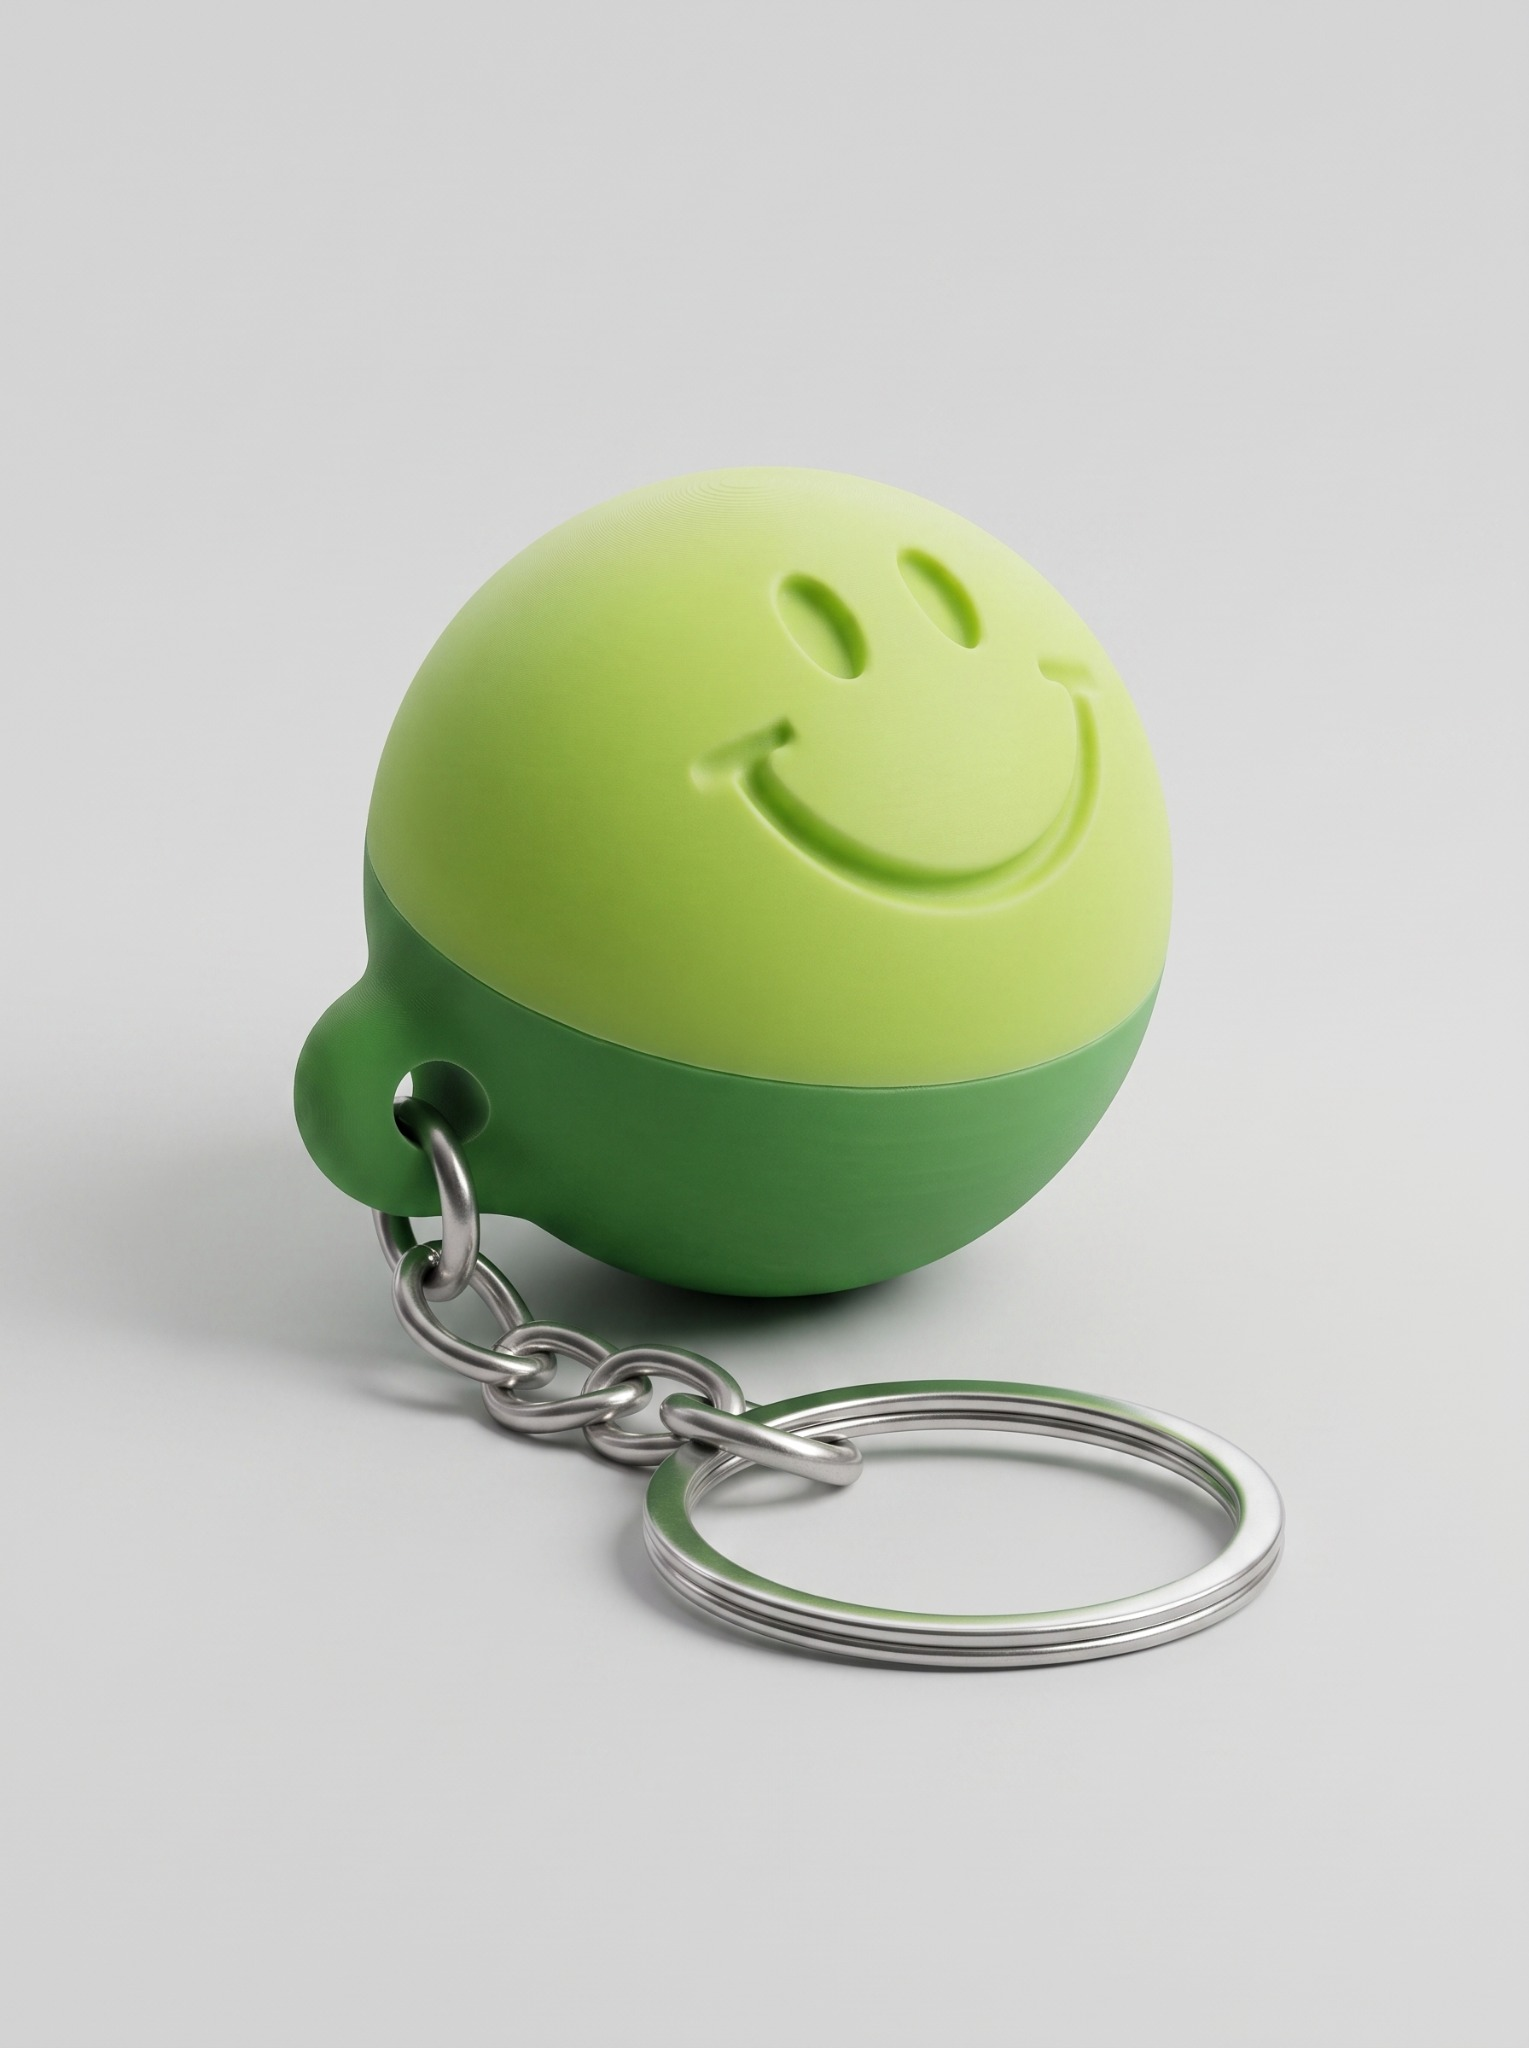
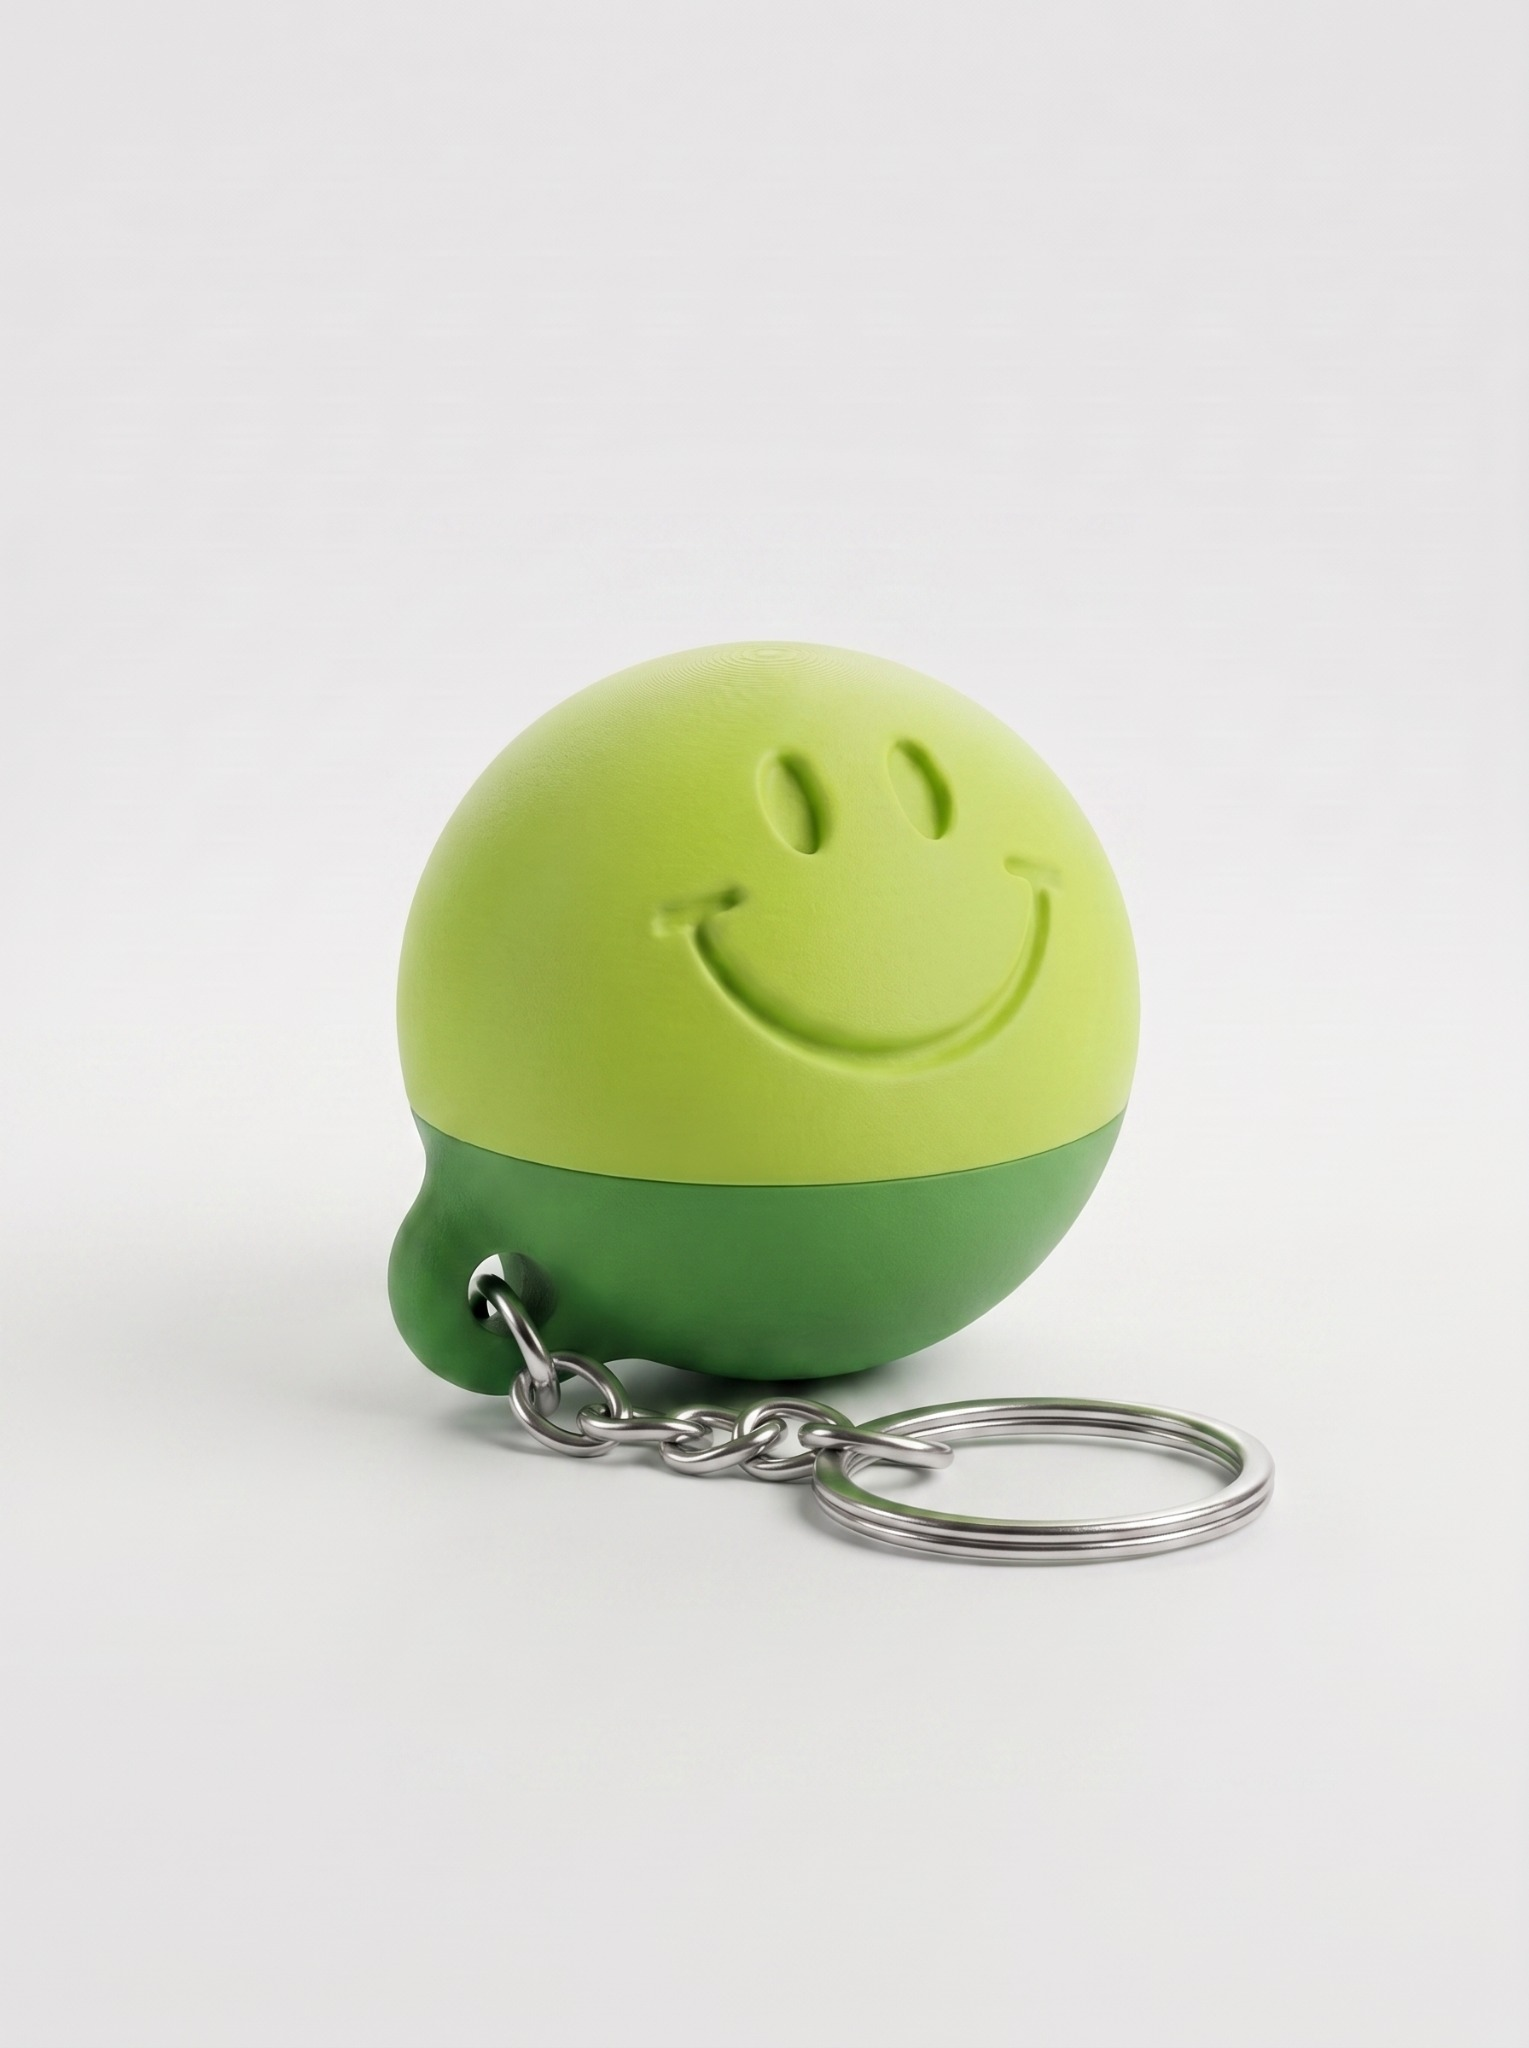
Replace Smiley Stasher product images

Changed region(s): [[0.0, 0.2188, 0.8607, 0.8438]]

diff --git a/app/page.tsx b/app/page.tsx
@@ -98,7 +98,7 @@ const products: Product[] = [
   {id:100,name:"SlideLock Stasher",category:"Containers",price:null,color:"cream",desc:"Product details will be available soon."},
   {id:101,name:"Slim Roll Case",category:"Lighter Sleeves",price:null,color:"black",desc:"Product details will be available soon."},
   {id:102,name:"Slim Wolf Sleeve",category:"Lighter Sleeves",price:null,color:"black",desc:"Product details will be available soon.",images:["/products/slim-wolf-sleeve-1.jpeg","/products/slim-wolf-sleeve-2.jpeg","/products/slim-wolf-sleeve-3.jpeg","/products/slim-wolf-sleeve-4.jpeg"],imageAlt:"Black Slim Wolf lighter sleeve with sculpted wolf design"},
-  {id:103,name:"Smiley Stasher - Keychain",category:"Containers",price:null,color:"cream",desc:"Product details will be available soon.",images:["/products/smiley-stasher-keychain-1.jpeg","/products/smiley-stasher-keychain-2.jpeg","/products/smiley-stasher-keychain-3.jpeg"],imageAlt:"Two-tone green spherical Smiley Stasher keychain with a threaded lid and silver key ring",imageFit:"cover",imageBackground:"light"},
+  {id:103,name:"Smiley Stasher - Keychain",category:"Containers",price:null,color:"cream",desc:"Product details will be available soon.",images:["/products/smiley-stasher-keychain-1.jpeg","/products/smiley-stasher-keychain-2.jpeg","/products/smiley-stasher-keychain-3.jpeg","/products/smiley-stasher-keychain-4.jpeg"],imageAlt:"Two-tone green spherical Smiley Stasher keychain with a threaded lid and silver key ring",imageFit:"cover",imageBackground:"light"},
   {id:104,name:"Smoke Box",category:"Rolling Kits",price:null,color:"pink",desc:"Product details will be available soon."},
   {id:105,name:"SnapLock Mini Stash Box",category:"Containers",price:null,color:"cream",desc:"Product details will be available soon.",images:["/products/snaplock-mini-stash-box-1.jpeg","/products/snaplock-mini-stash-box-2.jpeg","/products/snaplock-mini-stash-box-3.jpeg","/products/snaplock-mini-stash-box-4.jpeg"],imageAlt:"Black SnapLock Mini Stash Box with a white front locking clip and hinged lid",imageFit:"cover",imageBackground:"light"},
   {id:106,name:"SnapLock Smoking Essentials Box",category:"Containers",price:null,color:"cream",desc:"Product details will be available soon."},
